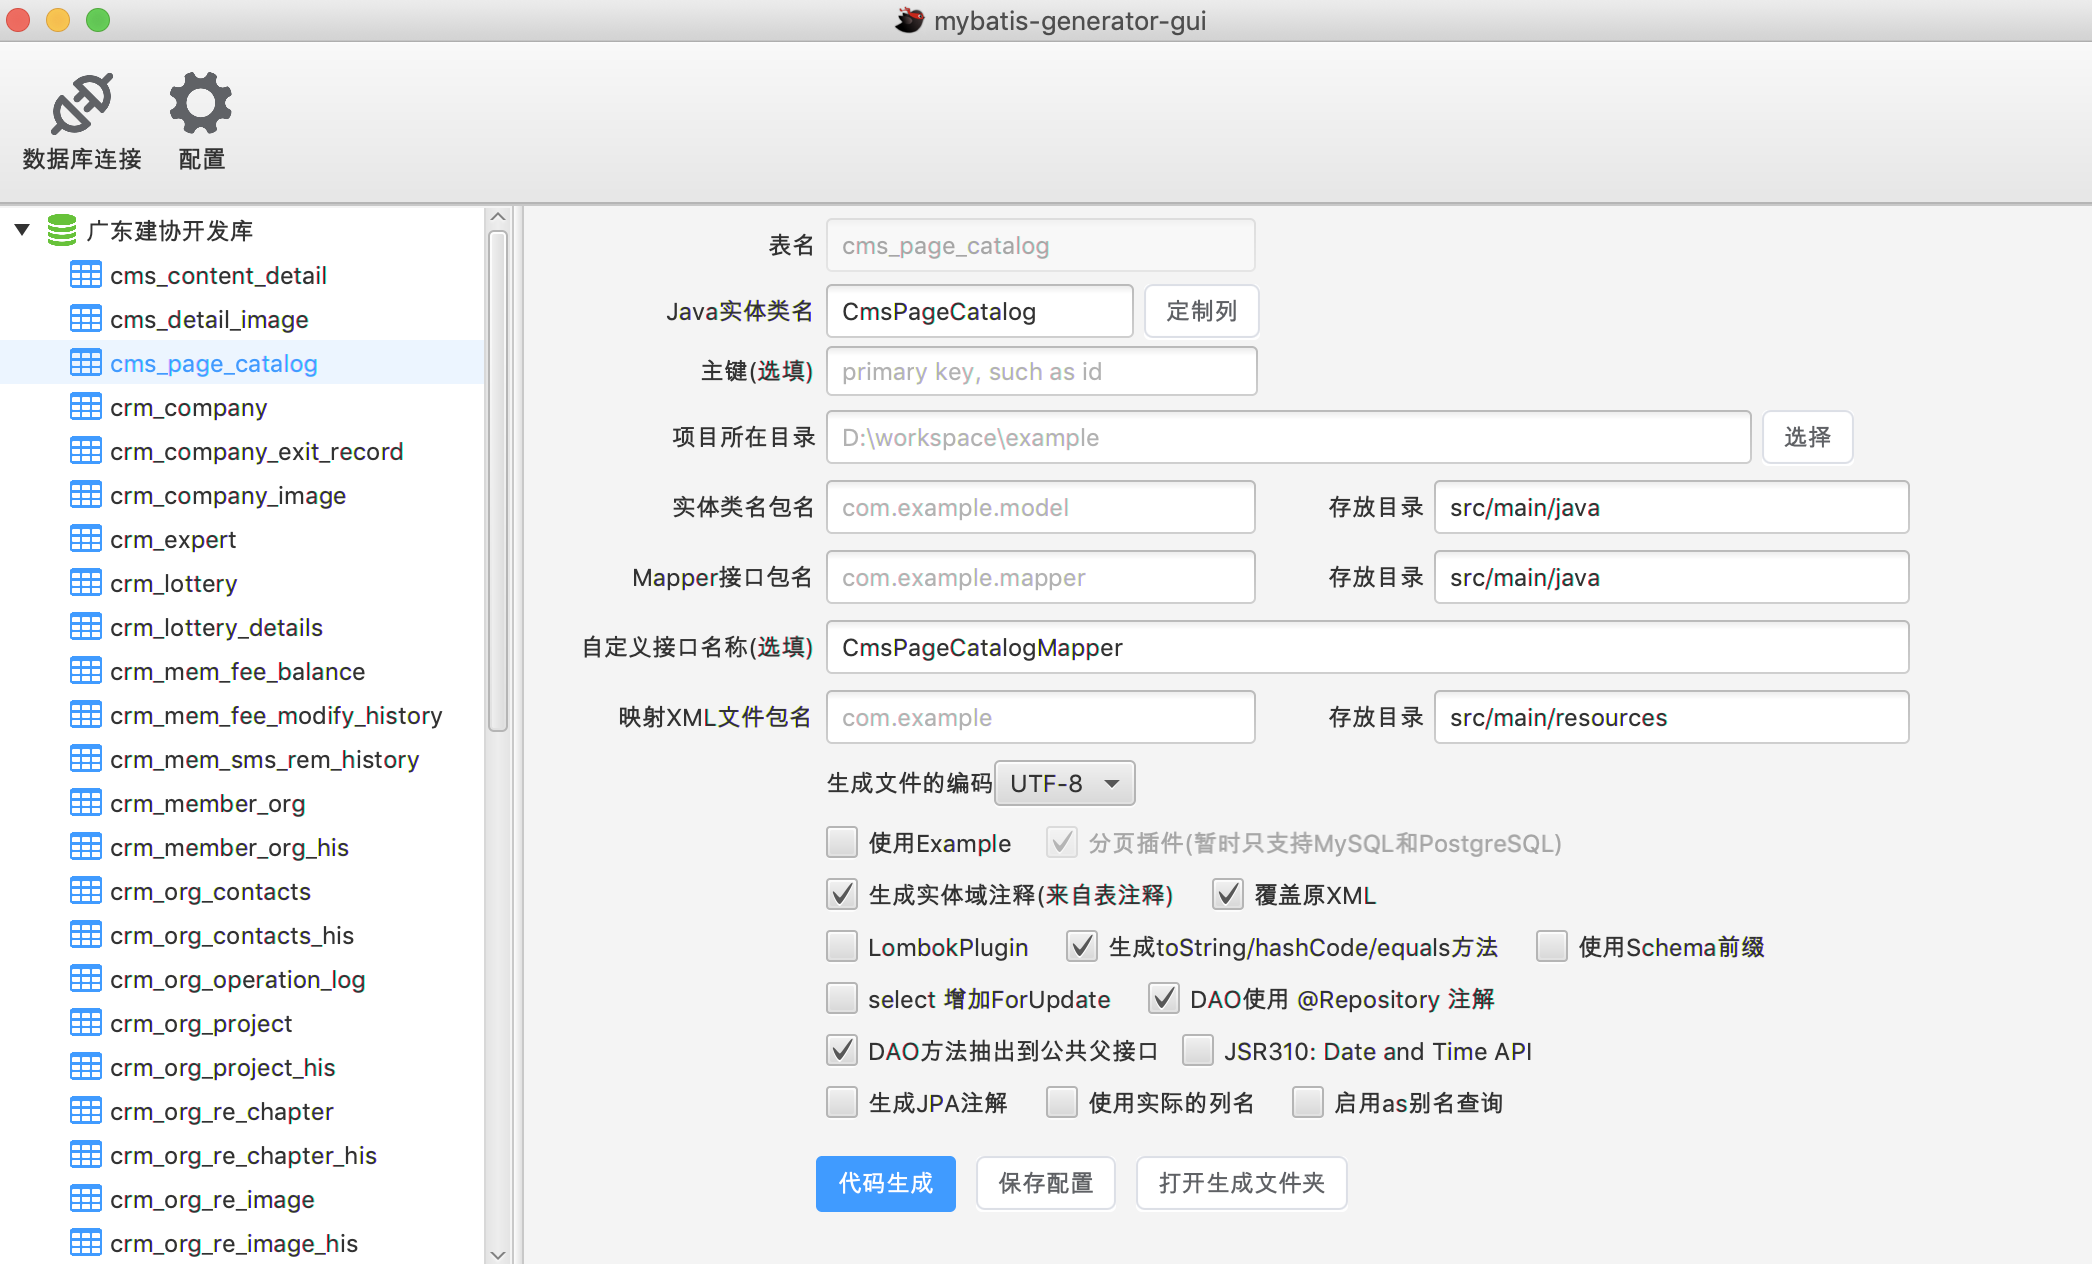
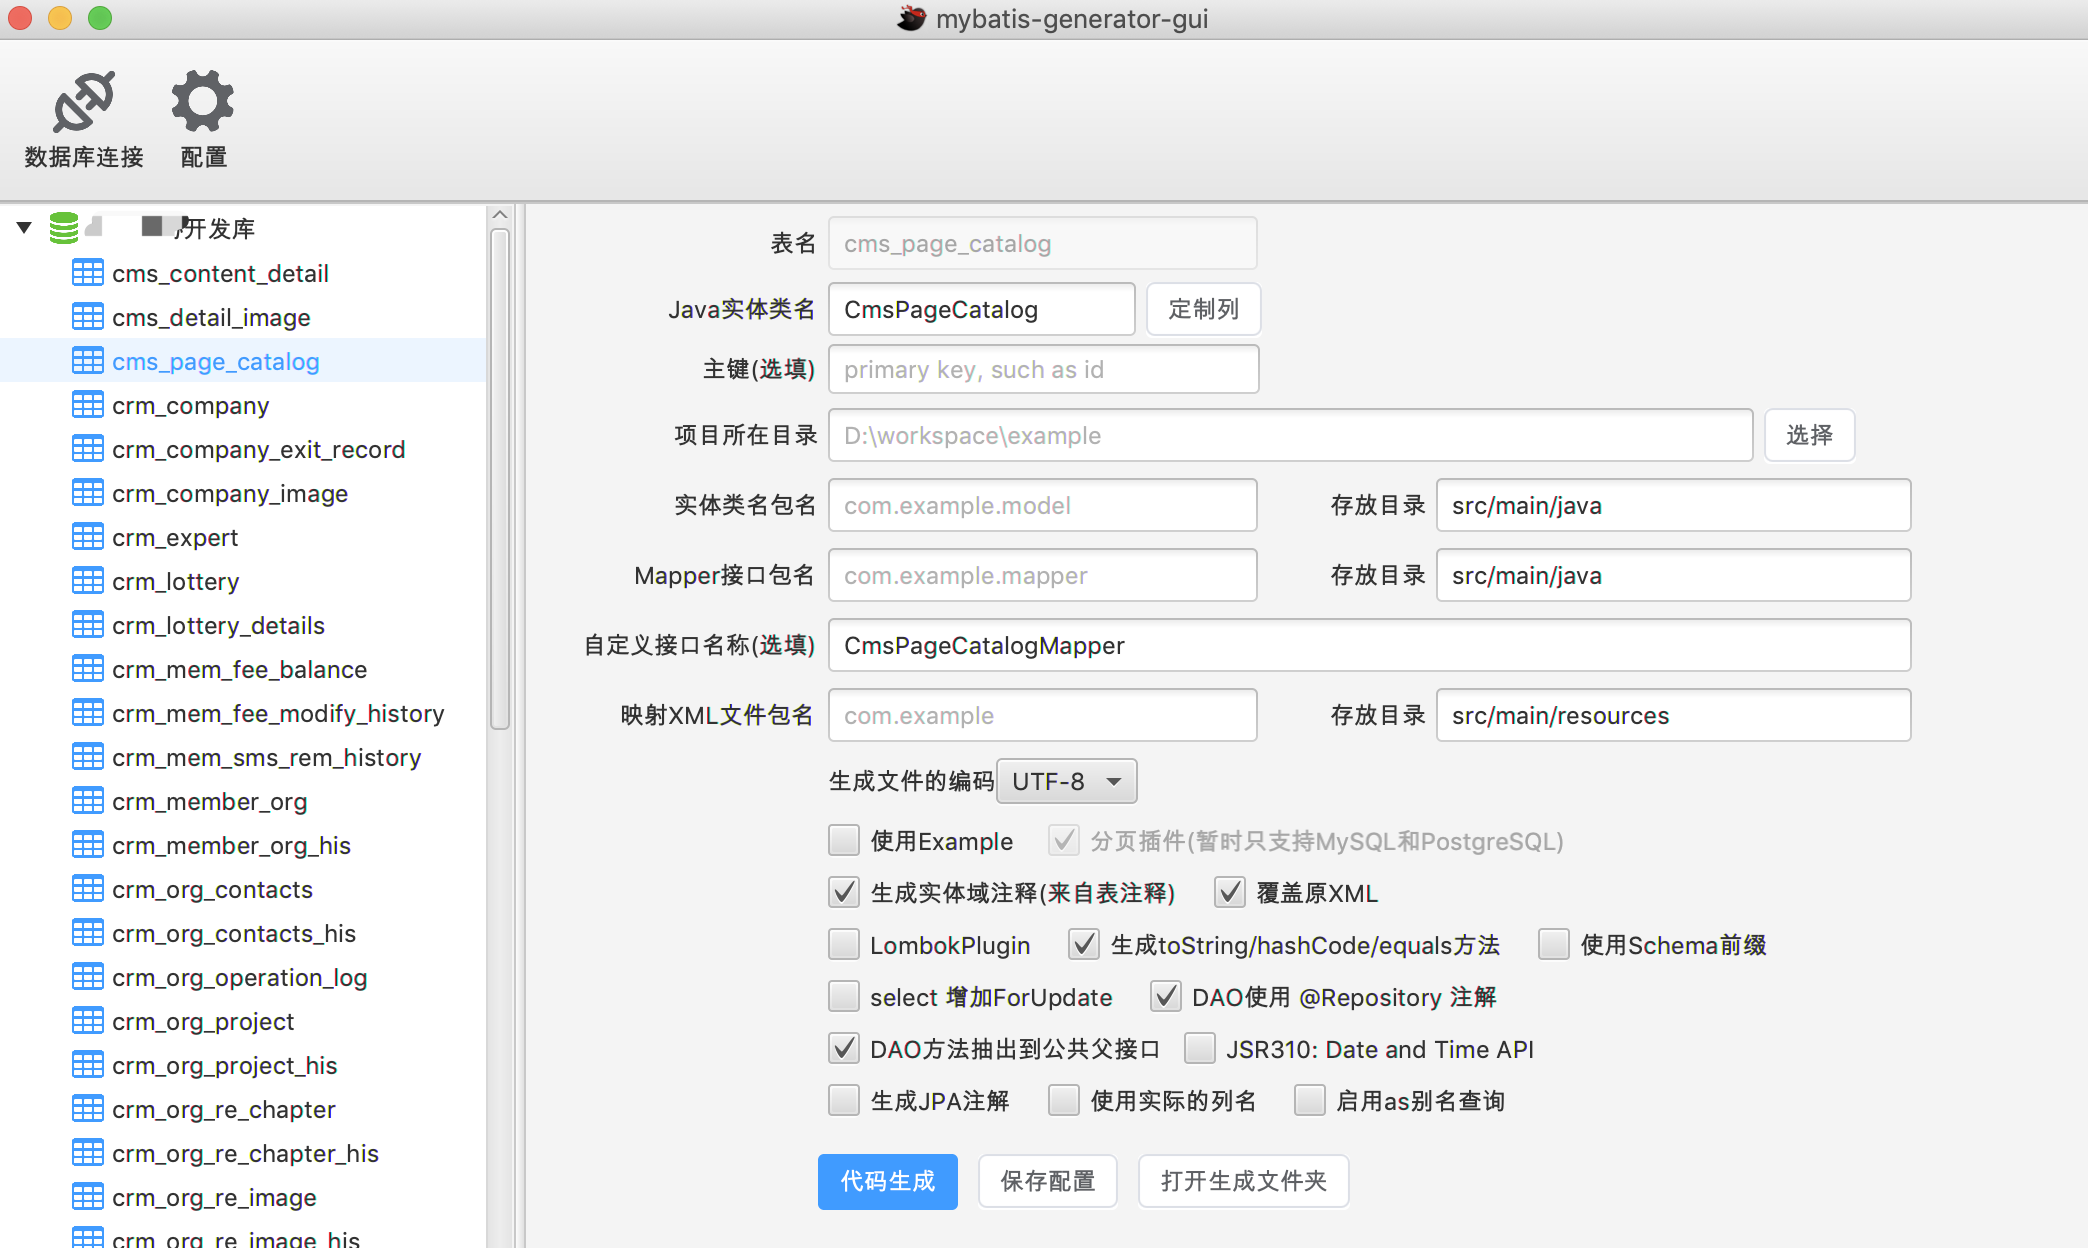
fix: 图片打码

diff --git a/README.md b/README.md
@@ -3,7 +3,7 @@ mybatis-generator-gui
 
 mybatis-generator-gui是基于[mybatis generator](http://www.mybatis.org/generator/index.html)开发一款界面工具, 本工具可以使你非常容易及快速生成Mybatis的Java POJO文件及数据库Mapping文件。
 
-![image](https://gdjcywebdata001.oss-cn-shenzhen.aliyuncs.com/b3710db19df44c6686adfee6d69f9b15.png)
+![image](https://github.com/msidolphin/mybatis-generator-gui/blob/master/screenshot/start.png?raw=true)
 
 
 ![basic](https://user-images.githubusercontent.com/3505708/51911610-45754980-240d-11e9-85ad-643e55cafab2.png)
